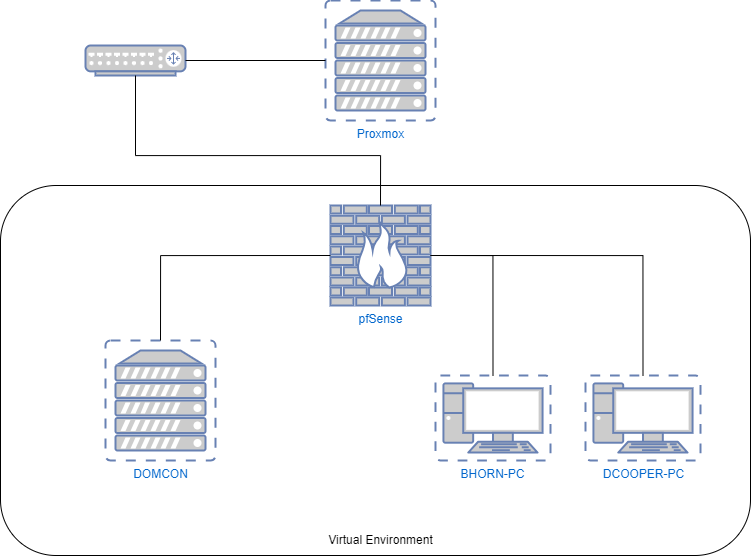
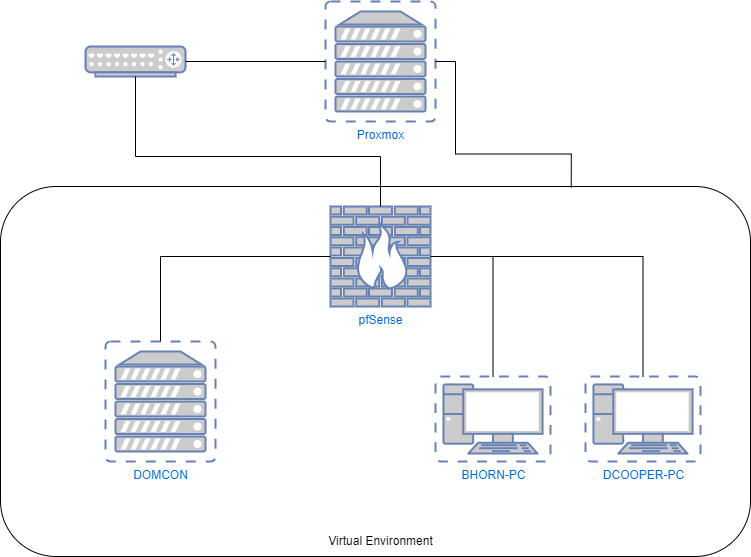
adding new writeup for splunk and new diagram png

diff --git a/_posts/2023-11-29-homelab-splunk.md b/_posts/2023-11-29-homelab-splunk.md
@@ -1,0 +1,293 @@
+---
+title: "Homelab Project: Integrating pfSense and Suricata with Splunk"
+categories:
+  - Blog
+tags:
+  - Homelab
+  - Proxmox
+  - Suricata
+  - Splunk
+  - pfSense
+toc: true
+toc_label: Table of Contents
+toc_sticky: true
+---
+
+In this post, I will be documenting the installation and setup of Splunk within my homelab. I will be installing Splunk on Ubuntu Server 18.04.6. Following the installation, I will set up forwarders on the Windows machines, configure Splunk as a syslog server for pfSense, and configure Splunk to ingest Suricata logs as well.
+
+Here is a basic diagram to visualize the additions to my homelab:
+<a href="/projectpage/assets\images\homelab-pve-pfsense-splunk-ad.png"><img src="/projectpage/assets\images\homelab-pve-pfsense-splunk-ad.png"></a>
+
+# Ubuntu VM setup
+As stated, I will be running Splunk on Ununtu server. 
+*Note: Technically the minimum system requirements for Splunk far exceed what I am capable of providing at this time. This VM would NOT be very useful in a production environment.*
+
+Defaults used, unless stated otherwise.
+- General:
+	- VM ID: 102
+	- Name: Splunk
+- OS:
+	- ISO image: ubuntu-18.04.6-live-server-amd64
+	- Guest OS:
+		- Type: Linux
+		- Version: 6.x - 2.6 Kernel
+- System:
+	- Graphic card: SPICE
+	- Machine: Default (i440fx)
+	- BIOS: Default (SeaBIOS)
+	- SCSI Controller: VirtIO SCSI
+	- Qemu Agent: disabled
+	- Add TPM: disabled
+- Disks:
+	- Bus/Device: VirtIO Block
+	- Storage: local-lvm
+	- Disk size: 256 GB
+	- Cache: Default (No cache)
+	- Discard: disabled
+	- IO thread: enabled
+- CPU:
+	- Sockets: 1
+	- Cores: 1
+	- Type: host
+- Memory:
+	- Memory: 8192 MB
+- Network:
+	- Bridge: vmbr2
+	- Model: VirtIO (paravirtualized)
+- Confirm:
+	- Start after created: enabled
+
+## Installing Ubuntu Server
+Press enter to proceed through the installation. At the Network connection page, I set a static IP:
+- Subnet: 10.0.0.0/26
+- Address: 10.0.0.3
+- Gateway: 10.0.0.1
+- Name servers: 8.8.8.8,8.8.4.4
+- Search domains: none
+Continue through the installation to the Profile setup:
+- Your name: none
+- Your server's name: splunk
+- Pick a username: splunkadmin
+Set a password and continue the installation, making sure that SSH is enabled. Once it completes, go ahead and reboot.
+
+# Downloading and Installing Splunk
+First, I setup an account with Splunk. Then on the WinAdmin machine, I signed into my Splunk account, and navigated to Products > Free Trials and Downloads. Select Get My Free Trial under Splunk Enterprise.
+
+Select Linux, then download the `.tgz` installer. After clicking on Download, I was given a `wget` download option. I went ahead and copied that, then navigated to `/tmp` on my Ubuntu server and ran the `wget` command.
+
+Once the Splunk tarball is finished, I navigated to `/opt` and ran the following command:
+
+`$ sudo tar -zxf /tmp/splunk-9.1.2-########-Linux-x86_64.tgz`
+
+Once the installer is unpacked, run the following command:
+
+`$ /opt/splunk/bin/splunk start --accept-license`
+
+Enter an admin name: `admin`
+Enter a password:
+
+Once the process is complete, we can access this Splunk instance at `http://10.0.0.3:8000`.
+
+## Configuring Splunk Receiver
+In Splunk, go to Settings > Forwarding and receiving. Then, click on Configure receiving and New Receiving Port. For the new receiver, I am using the default port of `9997`.
+
+# Setting up Forwarders for Windows
+## Download and Install Forwarders On Windows Machines 
+Next, go to the following link and download the forwarder:
+https://www.splunk.com/en_us/download.html
+
+Run the installer
+- Select "An on-premise Splunk Enterprise instance." 
+- Create userneame Admin and geneate random password. 
+- On the Deployment server page:
+    - `10.0.0.3`
+    - `8089`
+- On the Indexer page:
+    - `10.0.0.3`
+    - `9997`
+
+After this I repeated this process on the WinUser and DOMCON machines.
+
+## Ingesting Windows Logs
+In Splunk's web interface, go to Settings > Add Data. Then select Forward.
+
+- Select Forwarders:
+    - add all Available hosts, to add both Windows clients and the Domain Controller
+    - New Server Class Name: windows
+- Add Data:
+    - Local Event Logs: add all
+- Input Settings:
+    - Create a new index: win_event_logs
+- Review > Submit
+
+After this go to Search & Reporting, search for `index="win_event_logs"`, and confirm that data from the Event Logs of all three Windows hosts is now being ingested.
+
+*Note: For me it took a few minutes for Splunk to begin showing data, so be patient.*
+
+# Configuring Splunk to Monitor pfSense Logs
+## Creating Firewall Rule in pfSense
+To begin sending logs to a remote server, I will need to create a firewall rule on the WAN interface to allow this traffic. 
+
+In pfSense webConfigurator, navigate to Firewall > Rules 
+- Select the WAN interface.
+- Add a new rule at to the top of the rule-list.
+- Action: Pass
+- Protocol: UDP
+- Destination:
+    - Single host or alias: 10.0.0.3
+    - Destination Port Range: 
+        - From: other - Custom: 7001 - To: other - Custom:7001
+- Description: Allow UDP to Splunk:7001
+
+## Splunk Configuration
+### Create the Index: network
+Back to the Splunk web interface, I set up an Index for the pfSense logs:
+- Settings > Indexes
+- New Index
+    - Index Name: network
+    - Save
+
+### Data Inputs for Index: network
+Now that the index is created, I must set data inputs for it:
+- Settings > Data Inputs
+- UDP > Add New
+- Select Source
+    - Port: 7001
+- Input Settings
+    - Source type > Select: pfsense
+    - Method > Custom: pfSense (hostname)
+    - Index: network
+- Review > Submit
+
+At this point, I can perform a search of `index="network"` and view logs from pfSense, however they are a bit of a mess as Splunk has not been instructed how to parse the data.
+
+### Installing Splunk Apps
+Fortunately, there is an app within Splunk that will take care of the parsing for us, called "TA-pfSense." In addition to this app, I will also install "Splunk Common Information Model (CIM)." 
+
+To install apps, go to Apps > Find More Apps and search for each.
+
+After both apps are installed, restart Splunk and perform the search `index="network"` again. Now the logs are properly parsed, and all fields are extracted.
+
+# Suricata Setup
+## Installing Suricata in pfSense
+Now I will pivot back to the pfSense webConfigurator, and setup Suricata as an IDS:
+
+Global Settings
+- Install ETOpen Emerging Threats
+- Install Snort Rules: Free Registered User
+- Snort Rules Filename:snort3-community-rules.tar.gz
+- Install Snort GPLv2 Community Rules
+- Hide Deprecated Rules Categories
+- Live Rule Swap on Update
+- Save
+Next, go to Updates and click Force
+
+Go to the Interfaces tab
+Add New > WAN
+- Check the following:
+    - Enable HTTP Log
+    - Append HTTP Log
+    - Log Extended HTTP Info
+    - Enable TLS Log
+    - Append TLS Log
+    - Enable TLS Session Resumption
+    - Enable TLS Store
+    - Log Extended TLS Info
+    - EVE JSON Log
+    - Enable Logging Magic for Tracked-Files
+        - MD5
+
+As I am setting this up as an IDS, do not check Block Offenders
+
+Next go to Categories and enable all rules. Then Go back to the interfaces tab and click the green arrow to start Suricata on the WAN.
+
+### Adding Firewall Rule
+Before moving on from the webConfigurator, create an additional rule to send Suricata logs to Splunk on port 9997
+- Add a new rule at to the top of the rule-list.
+- Action: Pass
+- Protocol: TCP
+- Destination:
+    - Single host or alias: 10.0.0.3
+    - Destination Port Range: 
+        - From: other - Custom: 9997 - To: other - Custom:9997
+- Description: Allow TCP to Splunk:9997
+
+## Splunk Setup for Suricata
+### Installing Splunk App
+Just like with pfSense there is an app to parse Suricata logs, as well. This app is called "Splunk TA for Suricata," and can be added through the Splunk web interface. For the following steps, it will also need to be downloaded from: https://splunkbase.splunk.com/app/2760.
+
+### Installing Splunk Forwarder on pfSense
+Next I will install a Splunk forwarder on pfSense. Because pfSense is running on FreeBSD and can be a bit limitted, I will be extracting the tarred forwarder on the Splunk server, and then using `scp` to copy the extracted directory to pfSense.
+
+First I used `wget` to download the forwarder to the Splunk server's `/tmp` directory:
+
+`$ wget -O splunkforwarder-9.1.2-############-FreeBSD11-amd64.tgz "https://download.splunk.com/products/universalforwarder/releases/9.1.2/freebsd/splunkforwarder-9.1.2-############-FreeBSD11-amd64.tgz`
+
+Next, use `tar` extract its contents:
+
+`$ tar -zxf splunkforwarder-9.1.2-############-FreeBSD11-amd64.tgz`
+
+After this we are left with the directory `/splunkforwarder` and can use `scp` to copy it over to pfSense:
+
+`$ scp -r splunkforwarder/ root@10.0.0.1:/root/`
+
+Once the directory is copied over, move it to `/opt`:
+
+`$ mv splunkforwarder/ /opt/`
+
+### TA-Suricata Setup
+With the Splunk forwarder in place, I will copy the TA-Suricata app to pfSense as well. I repeated these steps, downloading the app tarball to the splunk server, extracting its contents, and copying them over to pfSense.
+
+After TA-Suricata is copied to pfSense, move it to the splunkforwarder's `/apps`:
+
+`$ mv /root/TA-Suricata /opt/splunkforwarder/etc/apps`
+
+Next, I created `outputs.conf` in `/opt/splunkforwarder/etc/system/local`:
+
+```
+/opt/splunkforwarder/etc/system/local/outputs.conf
+
+[tcpout]
+defaultGroup=my_indexers
+
+[tcpout:my_indexers]
+server=10.0.0.3:9997
+```
+
+Now, to configure TA-Suricata to monitor the Suricata Eve JSON log I will edit the `inputs.conf` file located at `/opt/splunkforwarder/etc/apps/TA-Suricata/default`:
+
+```
+/opt/splunkforwarder/etc/apps/TA-Suricata/default
+[monitor:///var/log/suricata/
+suricata_vtnet03270/eve.json]
+host=pfSense
+souretype=suricata
+index=ids
+
+```
+### Editing inputs.conf
+Next, on the Splunk server, I will edit the `inputs.conf` file at `/opt/splunk/etc/apps/TA-Suricata/default` to match the `inputs.conf` file on pfSense. The only difference will be in the top line, which will be:
+`[monitor://10.0.0.1:/var/log/suricata/suricata_vtnet03270/eve.json]`
+
+### Creating Index: ids
+Next, in the Splunk web interface, create a new index:
+- Settings > Indexes
+- New Index
+    - Index Name: ids
+    - Save
+
+## Starting the Forwarder and Restart Splunk
+Back on the pfSense command line, I `cd` into `/opt/splunkforwarder/bin` and enable the forwarder to start on boot:
+
+`$ ./splunk enable boot-start`
+
+And then start it:
+
+`$ ./splunk start`
+
+Finally, on the Splunk server, I restart Splunk:
+
+`$ /opt/splunk/bin/splunk restart`
+
+# Conclussion
+After all of this setup I can now view pfSense logs in Splunk by searching `index="network"`, and I can view Suricata alerts by searching `index="ids"`. Further more these indexes have all the interesting fields extracted, which would be of the utmost importance during incident resonse, or investigation.

diff --git a/_posts/2023-11-24-homelab.md b/_posts/2023-11-24-homelab.md
@@ -11,6 +11,10 @@ toc: true
 toc_label: Table of Contents
 toc_sticky: true
 ---
+# Project Pages
+[Homelab Project: Active Directory Setup](/projectpage/blog/homelab-ad/)
+[Homelab Project: Integrating pfSense, Suricata and Splunk](/projectpage/blog/homelab-splunk/)
+
 
 # Project Goals:
 This project will consist of creating a virtualized homelab in Proxmox. To start, this lab will be comprised of pfSense, Windows Server, and a few Windows 10 clients. I have already created several homelabs with Proxmox, but have not documented the process before. My primary goal is to gain hands-on experience with networking, firewalls, and Active Directory. After completing this initial setup I will be looking to experiment with other technologies, namely Snort and Splunk, but I shall walk before I run.

diff --git a/_posts/2023-11-28-homelab-ad.md b/_posts/2023-11-28-homelab-ad.md
@@ -102,5 +102,11 @@ Realistically, administering Active Directory should not be done from the domain
 - Check RSAT: Active Directory Domain Services and Lightweight Directory Services
 - Install
 
+## Installing PuTTY on WinAdmin
+As I have plans to expand this homelab, I imagine I will need an SSH client at some point. PuTTY is the SSH client for Windows that I am most familiar with.
+
+Download and install from here:
+https://www.chiark.greenend.org.uk/~sgtatham/putty/latest.html
+
 # Conclusion
 Now I have a basic Active Directory domain with two clients. 
